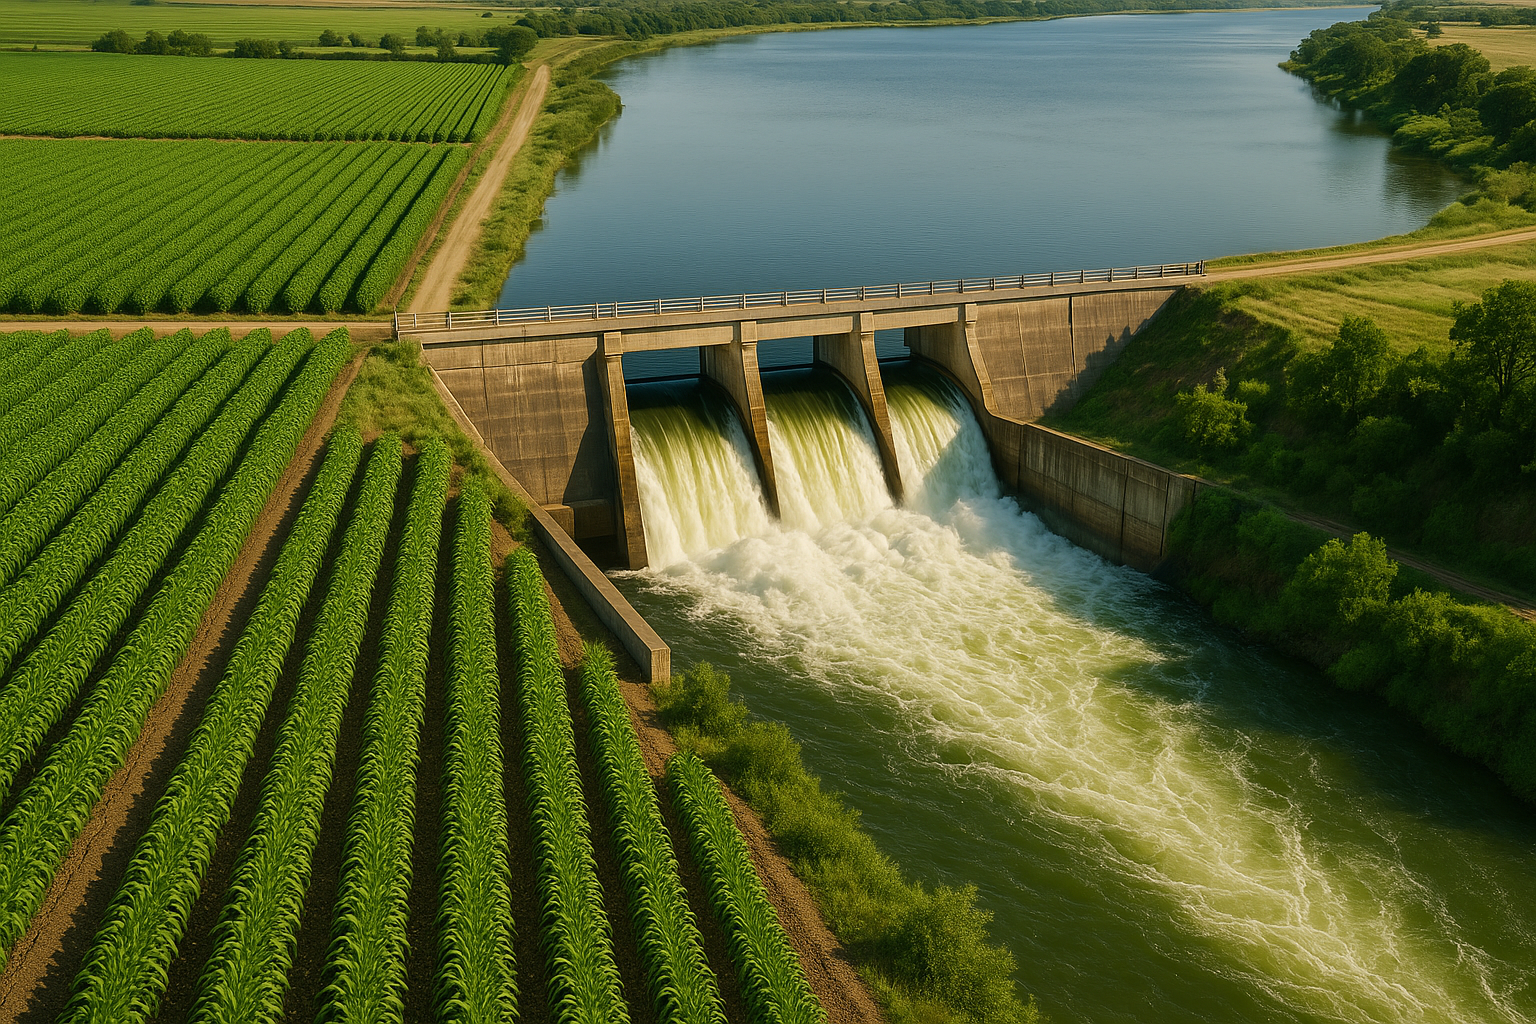
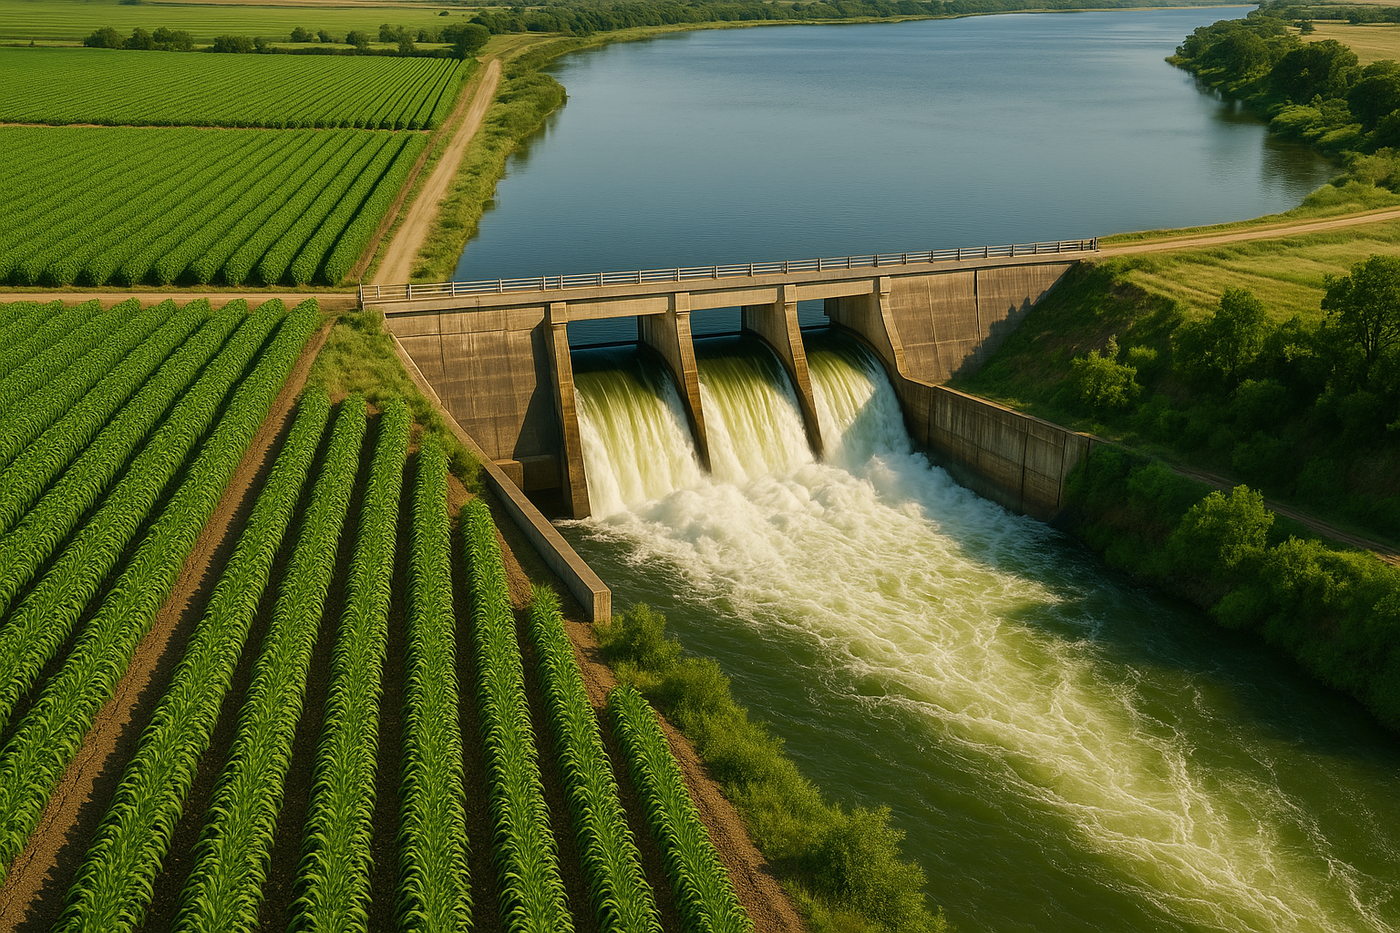
Optimize all images; auto-optimize media on every deploy
The home services cards were loading 2-3MB images (dam.jpg 2.2MB,
waterpans.png 3.4MB, hero 2.7MB) - seconds of blank cards on mobile.

- New optimize_images management command: resizes to max 1400px,
  recompresses (JPEG q82 progressive), converts photographic PNGs to
  JPEG and updates every ImageField reference in the database, never
  keeps a re-encode that is larger than the original; idempotent
- Run on the repo's media/ and static images: ~22MB saved
  (hero 2.7MB -> 143KB, dam 2.2MB -> 188KB, waterpans 3.3MB -> 307KB)
- deploy.sh now runs it after collectstatic, so the live server's
  media directory and admin uploads get optimized on every deploy

diff --git a/main/management/commands/optimize_images.py b/main/management/commands/optimize_images.py
@@ -1,0 +1,90 @@
+"""Shrink oversized images under MEDIA_ROOT in place.
+
+- Never makes a file bigger: the re-encode is kept only when smaller.
+- Photographic PNGs (no transparency) are converted to JPEG and every
+  ImageField in the database that pointed at the old file is updated.
+- Idempotent; run by deploy.sh so admin uploads get optimized too.
+"""
+import io
+from pathlib import Path
+
+from django.conf import settings
+from django.core.management.base import BaseCommand
+
+from PIL import Image
+
+MAX_WIDTH = 1400
+MAX_BYTES = 400 * 1024
+JPEG_QUALITY = 82
+
+
+def image_fields():
+    from main.models import GalleryCategory, GalleryItem, Service, TeamMember
+    return [(Service, 'image'), (GalleryCategory, 'image'),
+            (GalleryItem, 'image'), (TeamMember, 'photo')]
+
+
+class Command(BaseCommand):
+    help = "Resize/recompress oversized images under MEDIA_ROOT; convert photo-PNGs to JPEG."
+
+    def add_arguments(self, parser):
+        parser.add_argument('--path', default=None)
+        parser.add_argument('--no-db', action='store_true',
+                            help="Directory is not MEDIA_ROOT: skip PNG->JPEG conversion")
+
+    def handle(self, *args, **options):
+        root = Path(options['path'] or settings.MEDIA_ROOT)
+        if not root.exists():
+            self.stdout.write(f"{root} does not exist - nothing to do")
+            return
+        saved = count = 0
+        for path in sorted(root.rglob('*')):
+            suffix = path.suffix.lower()
+            if suffix not in ('.jpg', '.jpeg', '.png', '.webp'):
+                continue
+            size = path.stat().st_size
+            if size <= MAX_BYTES:
+                continue
+            try:
+                img = Image.open(path)
+                img.load()
+            except Exception as exc:  # noqa: BLE001
+                self.stderr.write(f"skip {path.name}: {exc}")
+                continue
+            if img.width > MAX_WIDTH:
+                ratio = MAX_WIDTH / img.width
+                img = img.resize((MAX_WIDTH, int(img.height * ratio)), Image.LANCZOS)
+
+            has_alpha = img.mode in ('RGBA', 'LA', 'P') and 'transparency' in img.info or img.mode == 'RGBA'
+            to_jpeg = (suffix == '.png' and not has_alpha and not options['no_db'])
+
+            buf = io.BytesIO()
+            if suffix in ('.jpg', '.jpeg') or to_jpeg:
+                img.convert('RGB').save(buf, 'JPEG', quality=JPEG_QUALITY,
+                                        optimize=True, progressive=True)
+            elif suffix == '.png':
+                img.save(buf, 'PNG', optimize=True)
+            else:
+                img.save(buf, 'WEBP', quality=JPEG_QUALITY)
+            data = buf.getvalue()
+            if len(data) >= size:
+                continue  # never regress
+
+            if to_jpeg:
+                new_path = path.with_suffix('.jpg')
+                new_path.write_bytes(data)
+                old_rel = str(path.relative_to(root)).replace('\\', '/')
+                new_rel = str(new_path.relative_to(root)).replace('\\', '/')
+                changed = 0
+                for model, field in image_fields():
+                    changed += model.objects.filter(**{field: old_rel}).update(**{field: new_rel})
+                path.unlink()
+                self.stdout.write(f"{old_rel} -> {new_rel}: {size//1024}KB -> "
+                                  f"{len(data)//1024}KB ({changed} db ref(s) updated)")
+            else:
+                path.write_bytes(data)
+                self.stdout.write(f"{path.relative_to(root)}: {size//1024}KB -> {len(data)//1024}KB")
+            saved += size - len(data)
+            count += 1
+        self.stdout.write(self.style.SUCCESS(
+            f"Optimized {count} image(s), saved {saved//1024}KB"))
